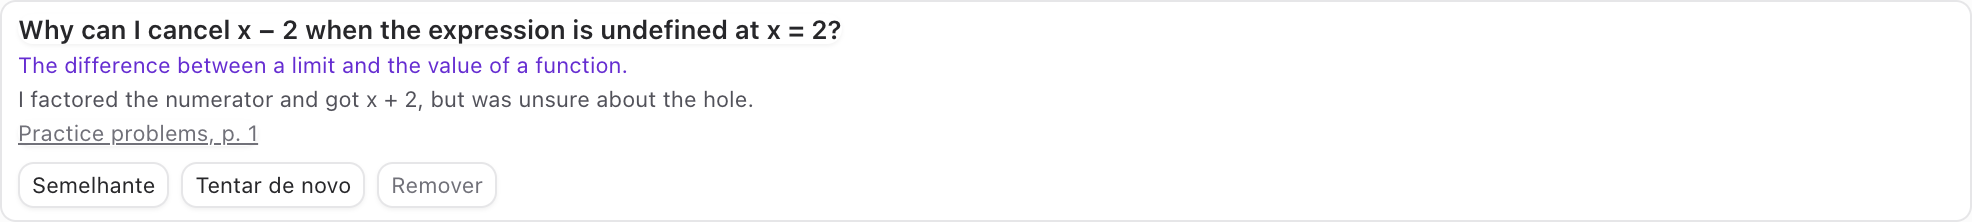
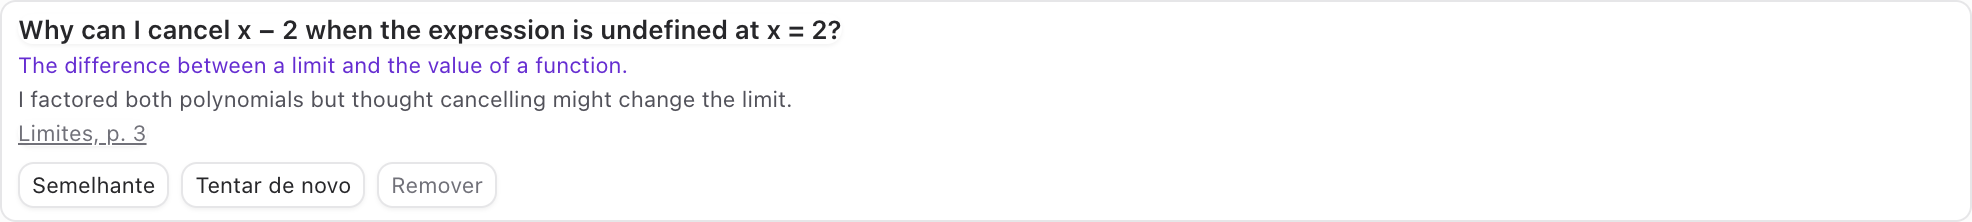
Show real calculus PDFs and rendered math in Mesa screenshots

Changed region(s): [[0.0619, 0.4054, 0.4021, 0.4865], [0.0, 0.5676, 0.1237, 0.6757]]

diff --git a/README.md b/README.md
@@ -8,9 +8,9 @@ Mesa de Estudos ("Study Desk") is a local Electron app built around a simple stu
 
 ## The desk
 
-<a href="docs/images/study-workspace.png"><img src="docs/images/study-workspace.png" alt="Mesa de Estudos with a practice PDF, a reference PDF, and a tutor conversation side by side"></a>
+<a href="docs/images/study-workspace.png"><img src="docs/images/study-workspace.png" alt="Mesa de Estudos with real calculus exercise and formula PDFs beside a tutor conversation with a rendered equation"></a>
 
-*Click the image to enlarge. This is the actual app with fictional PDFs and a scripted Pi test session. The interface is currently in Portuguese; the panel titles and sample materials here were configured for this demo.*
+*Click the image to enlarge. This is the actual app showing the author's calculus PDFs and a scripted Pi test session with rendered LaTeX. Only the screenshots are included here, not the PDF files. The interface is currently in Portuguese; the panel titles were configured for this demo.*
 
 The left reader holds the exercise. The middle reader holds a formula sheet or another reference. Each PDF has its own navigation, search, zoom, and page position. The conversation on the right knows the active subject, exercise, and open references when you choose to include them. A numeric calculator is available below it.
 
@@ -23,13 +23,13 @@ The left reader holds the exercise. The middle reader holds a formula sheet or a
 
 <img src="docs/images/tutor-and-context.png" alt="A demo conversation with the active exercise, PDF context, and a clickable page citation" width="480">
 
-*In this demo, the tutor points back to `Practice problems.pdf, p. 1`. The screenshot uses a test Pi session, not a claim about any model's accuracy.*
+*In this demo, the tutor renders a worked equation and points back to `Limites.pdf, p. 3`. The exchange uses a test Pi session, not a claim about any model's accuracy.*
 
 ### Save the sticking point
 
 The review notebook keeps a question, your attempt, what was difficult, and a link back to the page. From there you can ask for a similar problem or try again. “End for today” separately saves a local checkpoint with the next step, active exercise, and open pages so you can resume deliberately.
 
-<img src="docs/images/review-notebook.png" alt="A review notebook entry tied to the practice PDF" width="850">
+<img src="docs/images/review-notebook.png" alt="A review notebook entry tied to page 3 of the limits PDF" width="850">
 
 ## How it fits together
 
